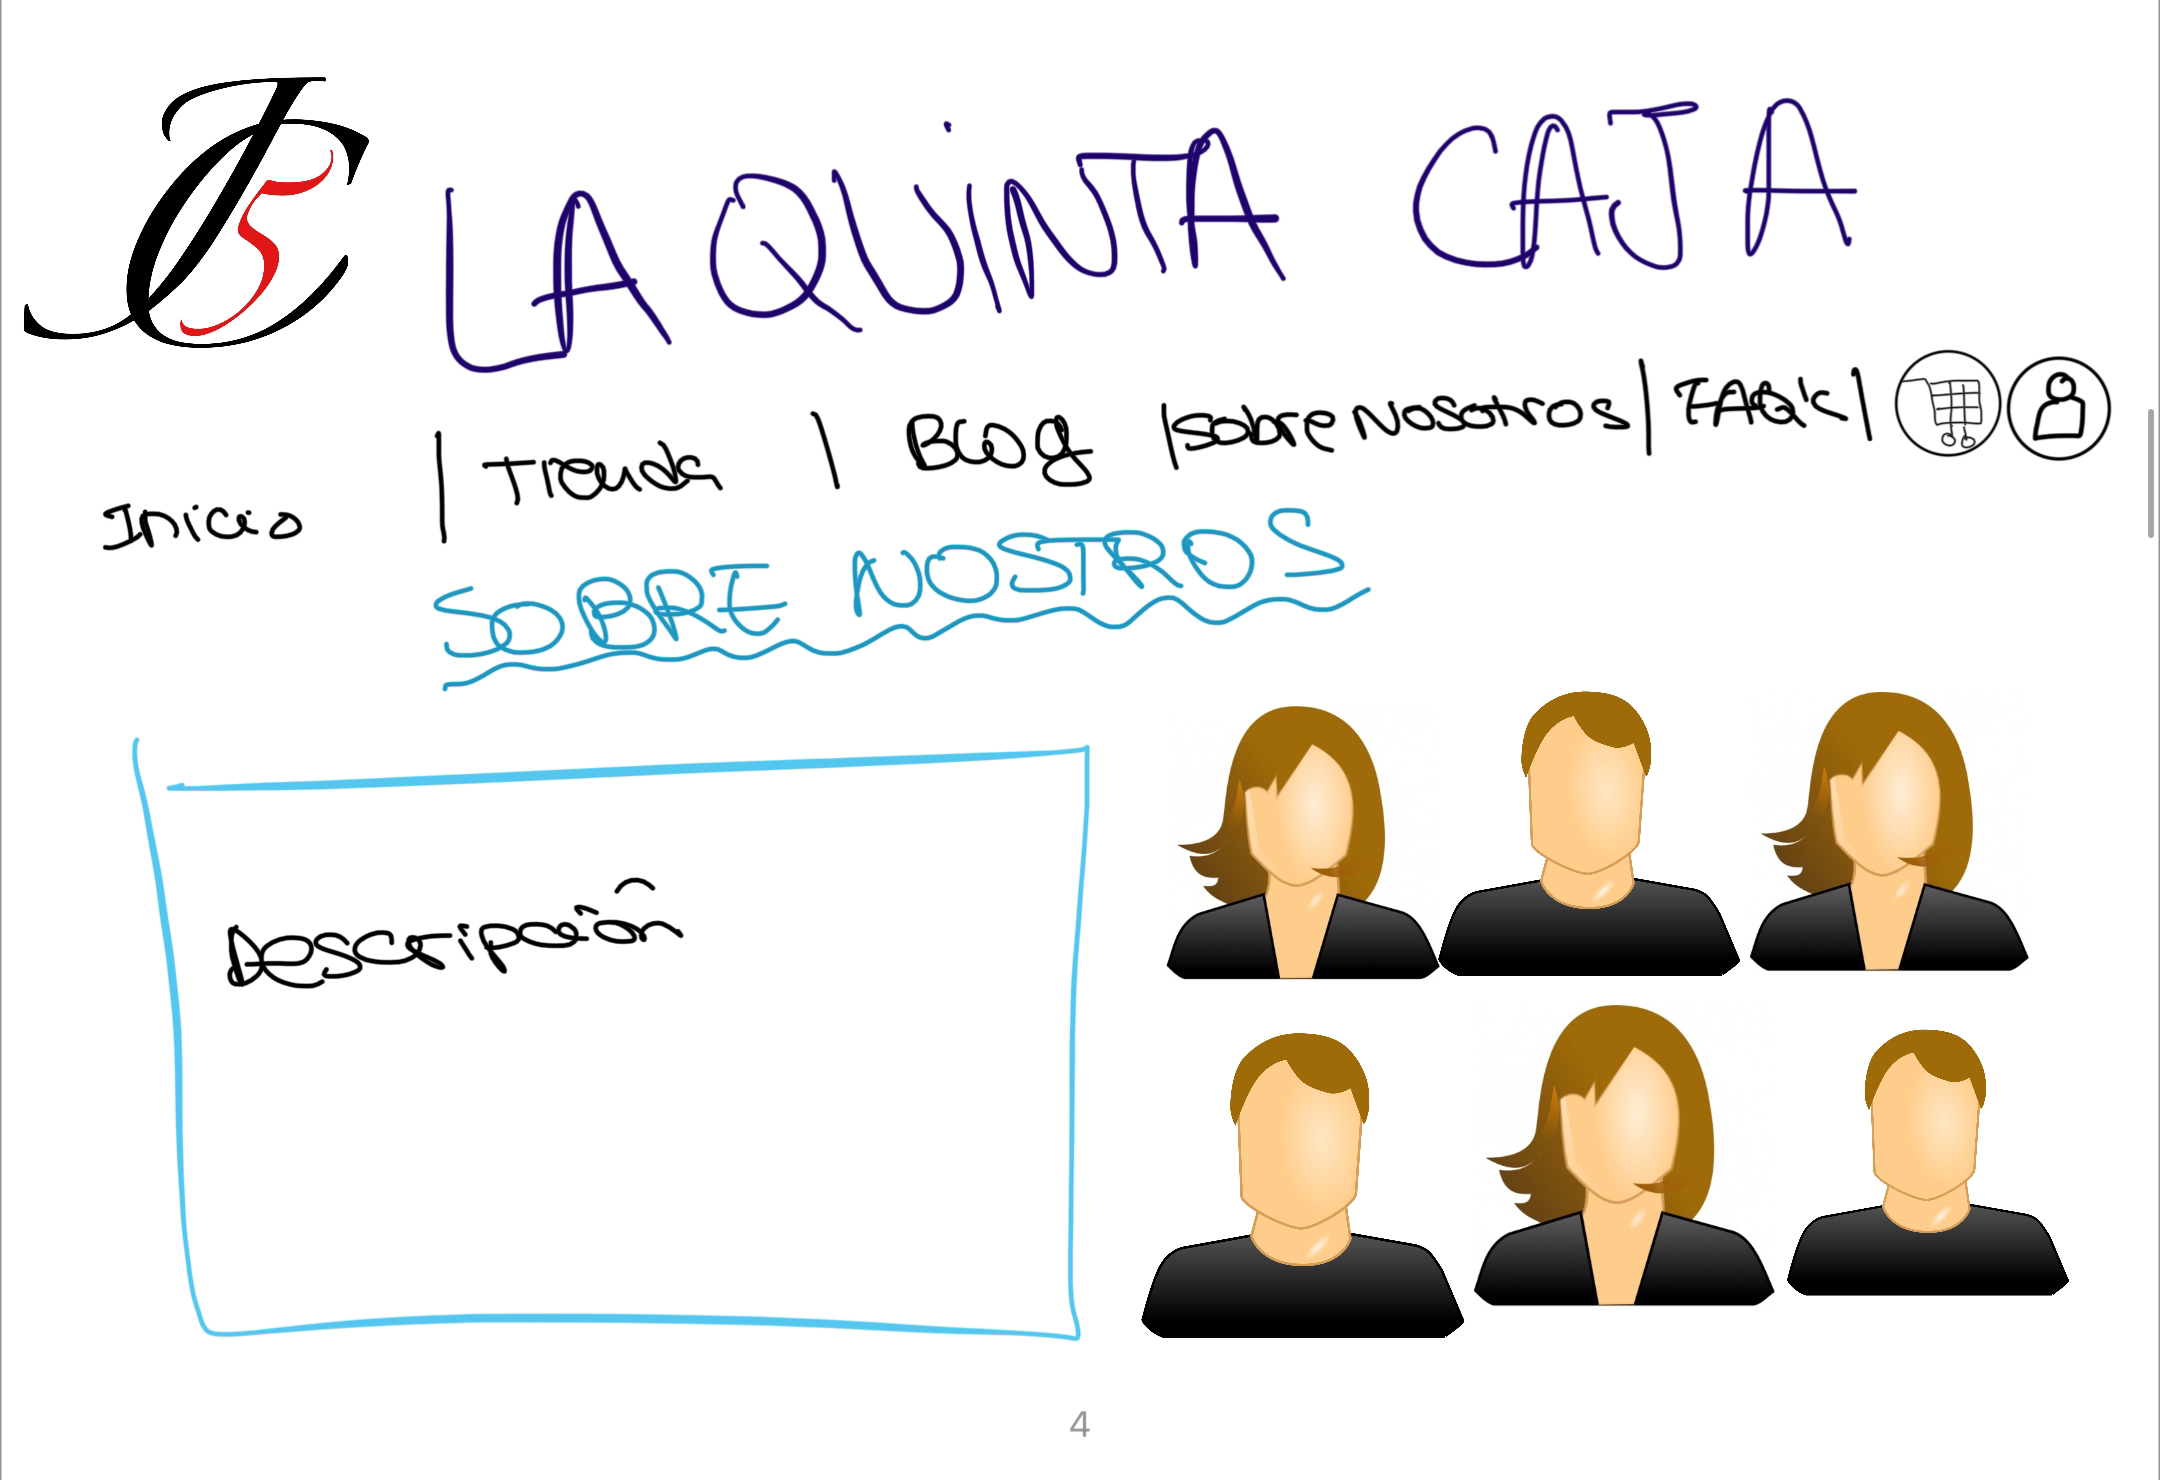
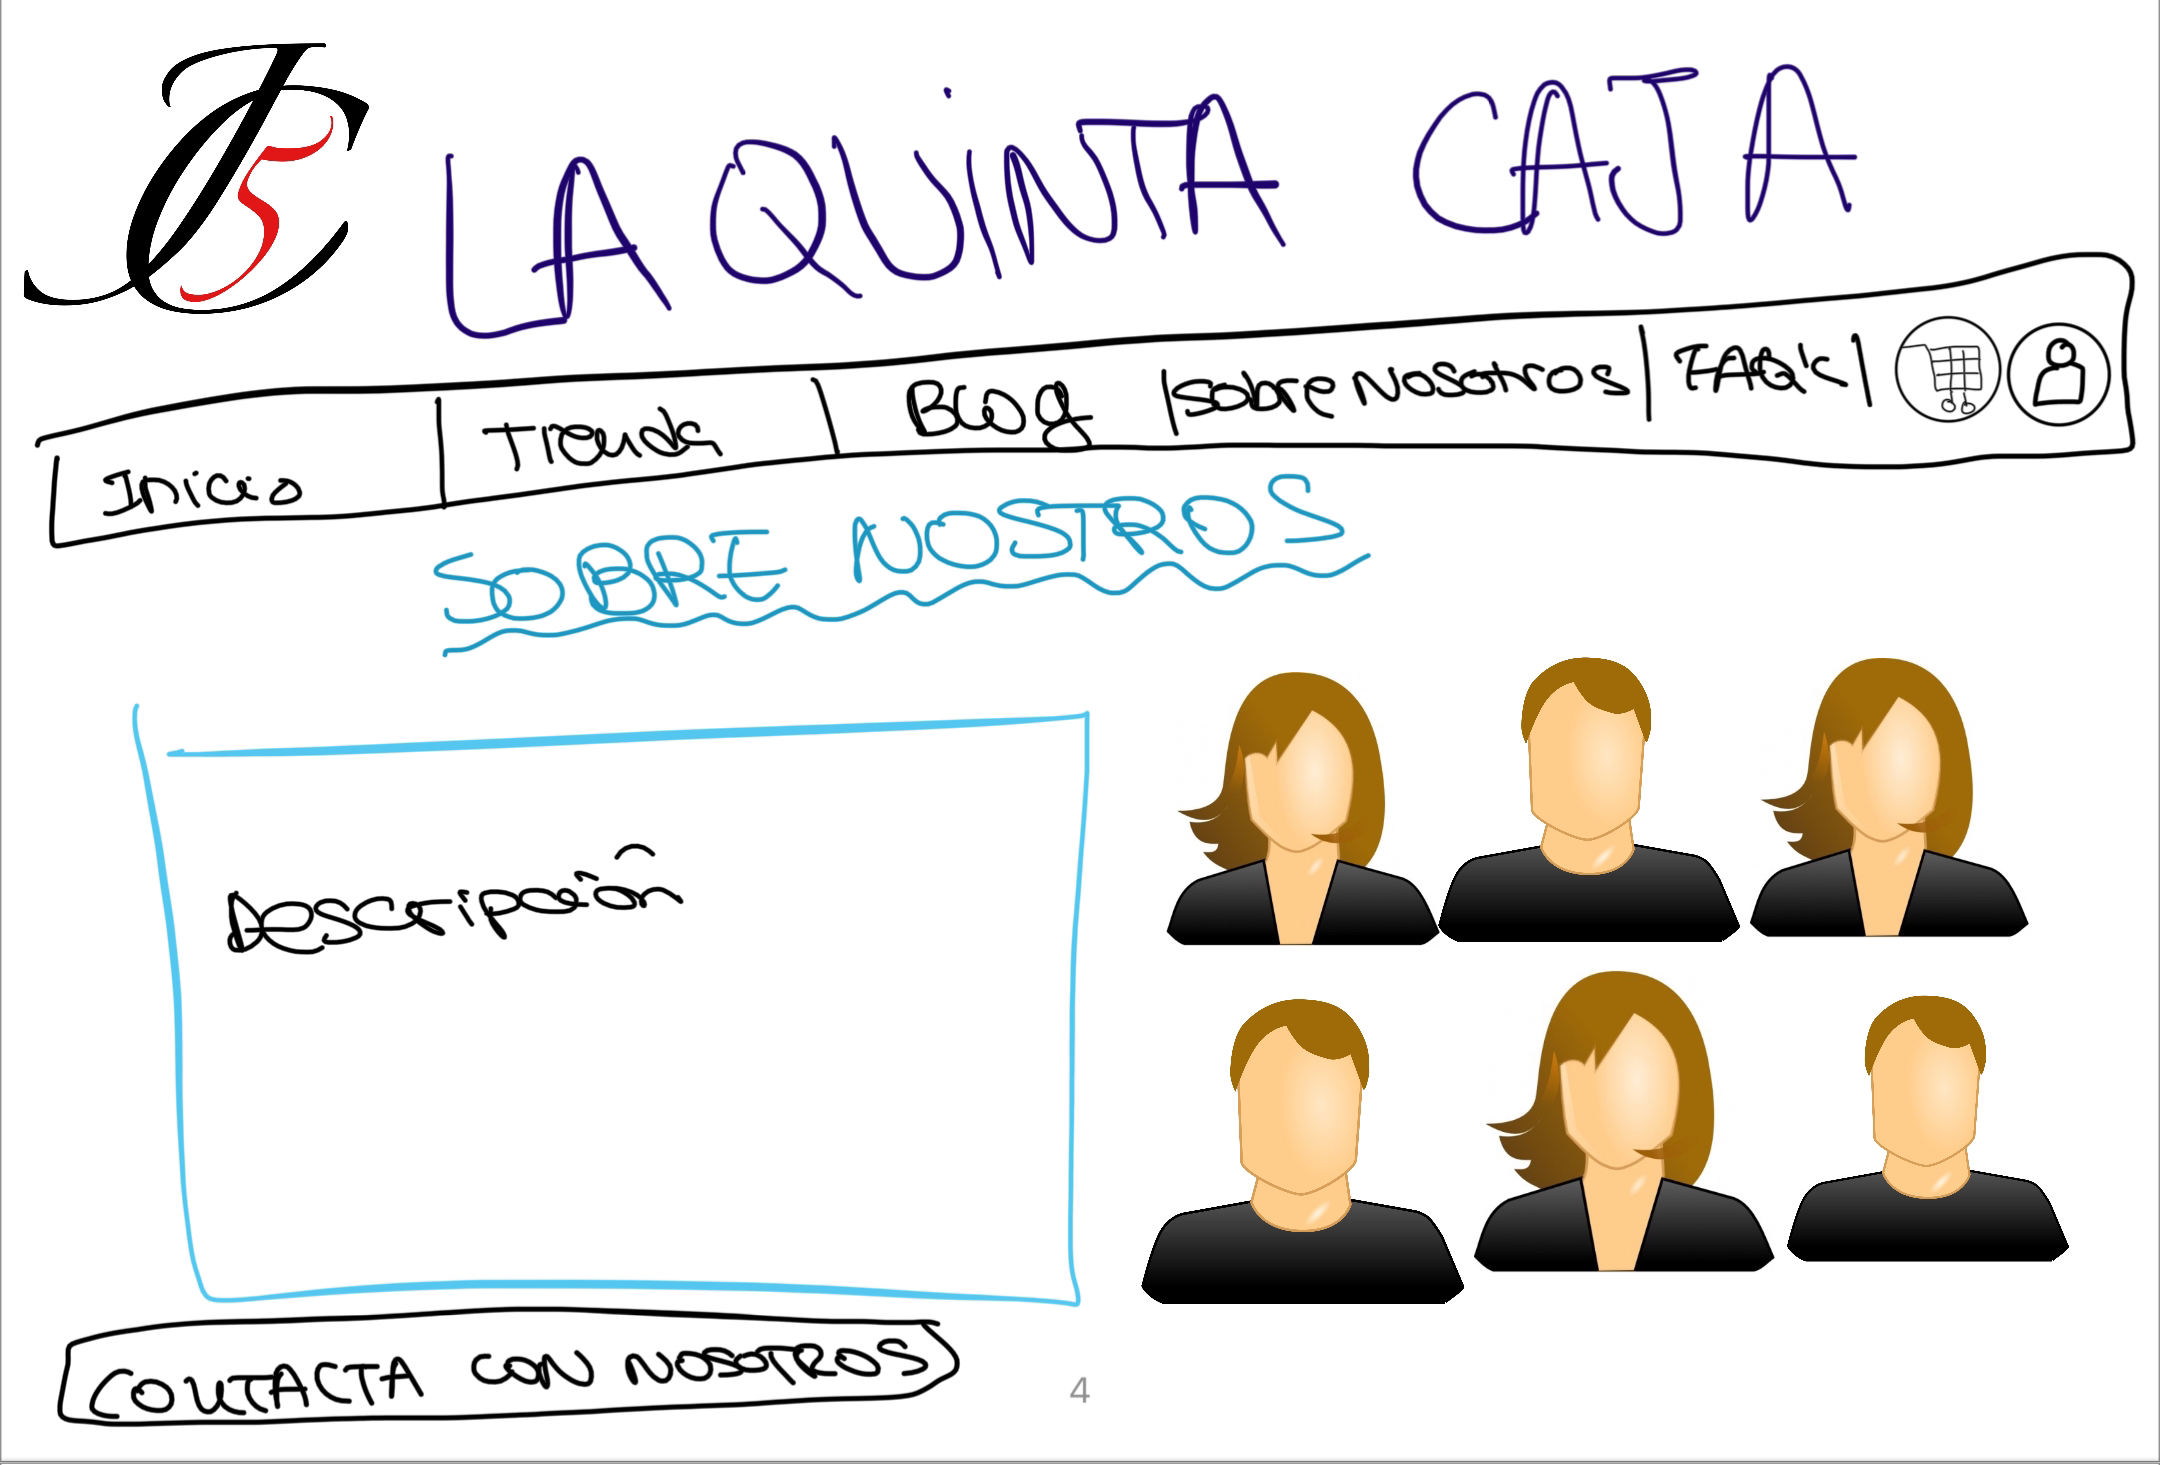
bocetos acabados
La pagina de bocetos con todas la descripciones e imagenes

diff --git a/bocetos.html b/bocetos.html
@@ -23,22 +23,91 @@
 	 con un enlace a la página de registro. En el otro lado estará la caja de temporada, con un enlace a la tienda. En la barra superior
 	 encontramos las páginas principales a las que se puede acceder haciendo click</p>
 	<img class="boceto" src="img/b_PPrincipal.png" alt="Boceto de la Pagina Principal">
+	
 	<h3> Página de Tienda </h3>
 	<p> Descripcion: Página de la tienda, donde se encontraran todos nuestro productos en orden. El cliente podrá navegar sobre esta, viendo los 
 	distintos productos. En el lado izquierdo de la pagina encontraremos una sección con filtros, pudiendo el cliente seleccionar lo que el desee
 	y mostrandose los productos según dichos criterios. Al seleccionar un producto se redigirá a la página concetra del producto. 
-	En la barra superior encontramos las páginas principales a las que se puede acceder haciendo click</p>
+	En la barra superior encontramos las páginas principales a las que se puede acceder haciendo click. En caso de estar registrado como administrador
+	se dara la opción de modificar las unidades de los productos, eliminarlos o añadir nuevos productos</p>
 	<img class="boceto" src="img/b_Tienda.png" alt="Boceto de la Tienda">
+	
 	<h3> Página de Producto </h3>
-	<p> Descripción: Página que muestra un producto en concreto. Encontramos los detalles del producto, una imange y su precio. Se puede elegir
-		talla y unidades. Si se decide comprar se añade el producto al carrito </p>
+	<p> Descripción: Página que muestra un producto en concreto. Encontramos los detalles del producto, una imagen y su precio. Se puede elegir
+		talla y unidades. Si se decide comprar se añade el producto al carrito, si el usuario esta registrado se añadirá al carrito, sino se redigirá
+		a la página de login. Del mismo modo, si esta registrado podrá añadir el producto a la lista de deseaos, sino serán redirigidos a la página de 
+		login. En la parte inferior se encontrará la parte de comentarios, y se podrá añadir una review en caso de haber comprado el producto anteriormente
+		Como administrador se pueden editar todos los datos posibles de los productos. </p>
 	<img class="boceto" src="img/b_PProducto.png" alt="Boceto de Pag de producto">
-	<h3> Página de Sobre Nosotros </h3>
-	<p> Descripcion </p>
+	
+	<h3> Página Sobre Nosotros </h3>
+	<p> Descripción: Página en la que se muestra la información de la empresa “La Quinta Caja”. Si pulsas el botón contáctanos se redigirá a la página
+	de Contacto	</p>
 	<img class="boceto" src="img/b_SobreNosotros.png" alt="Boceto de Sobre Nosotros">
+	
 	<h3> Página de FAQs </h3>
-	<p> Descripcion </p>
+	<p> Descripción: Página en la que se muestran las preguntas frecuentes y se da una respuesta a cada una de ellas </p>
 	<img class="boceto" src="img/b_PFAQs.png" alt="Boceto de la Pagina de FAQs">
+	
+	<h3> Página del Blog </h3>
+	<p> Descripción: Blog de la web donde se muestran las entradas publicadas	 en orden cronológico con una pequeña previsualización.
+		En caso de estar registrado como administrador se podrán añadir nuevas entradas o eliminar entradas existentes. 
+		Al hacer click en una de las entradas se redirigirá a esta. </p>
+	<img class="boceto" src="img/b_PBlog.png" alt="Boceto de la Pagina del Blog">
+	
+	<h3> Página de Post del Blog</h3>
+	<p> Descripcion: Se muestra la entrada del blog, con su texto e imágenes. En el lateral izquierdo se mostrarán los titulares de otras entradas, 
+		siendo redirigido a esta en caso de que se desee. Después de la entrada, en la parte inferior existirá una opción de comentarios, 
+		donde todos los usuarios registrados podrán comentar. En caso de ser administrador se podrá editar el post.</p>
+	<img class="boceto" src="img/b_PPost.png" alt="Boceto de la Pagina de Post del Blog">
+	
+	<h3> Página de Mi Usuario</h3>
+	<p> Descripción: En caso de estar registrado se mostrarán los datos del usuario (nombre, email, comprar y su tipo de suscripción, 
+	que podrá cambiar si desea en la misma página). Desde esta página se puede acceder a la lista de deseos del usuario.  </p>
+	<img class="boceto" src="img/b_PUsuario.png" alt="Boceto de la Pagina de Mi Usuario">
+	
+	<h3> Página de Registro</h3>
+	<p> Descripción: Si el usuario ya está registrado se le redirigirá a la página de usuario. Se pide introducir los datos personales 
+	(nombre, apellidos, email, contraseña, dirección y la casilla de aceptar términos y condiciones). Al pulsar el botón registrarse se 
+	registra el usuario (en caso de que no haya ningún error) Sino, se mostrará el error que el usuario deberá corregir para poder registrarse.</p>
+	<img class="boceto" src="img/b_PRegistro.png" alt="Boceto de la Pagina de Registro">
+	
+	<h3> Página de Carrito</h3>
+	<p> Descripción: En esta página aparecerá una lista con los artículos que el usuario ha elegido comprar, con los precios y 
+		características desglosadas.Si ya está registrado, aparecerá un mensaje de confirmación de la compra y se añadirá el pedido 
+		a la lista de pedidos. Como solo aceptamos pagos en efectivo, no será necesario introducir la información de la tarjeta de crédito. </p>
+	<img class="boceto" src="img/b_PCarrito.png" alt="Boceto de la Pagina de Carrito">
+	
+	<h3> Página de Lista de Deseos</h3>
+	<p> Descripcion: Se muestran los productos añadidos en la lista de deseos de un usuario registrado.  </p>
+	<img class="boceto" src="img/b_PDeseos.png" alt="Boceto de la Pagina de Lista de Deseos">
+	
+	<h3> Página de Inicio Sesion</h3>
+	<p> Descripcion: Se pide al usuario el mail y la contraseña para poder acceder a la página registrado. Cuando se pulsa el botón "Inicio 
+	Sesión" se comprueban los datos y se inicia sesión. En caso de no estar registrado, pulsando el botón "Registrarse" se redirige a la página
+    de registro	</p>
+	<img class="boceto" src="img/b_PLogin.png" alt="Boceto de la Pagina de Inicio de Sesion">
+	
+	<h3> Página de Contacto</h3>
+	<p> Descripcion: Página en la que cualquier usuario puede contactar con La Quinta Caja. Se deben introducir los datos necesarios (Nombre, Mail, 
+	Motivo y Mensaje) y aceptar los términos y condiciones. Al pulsar enviar se envía la consulta a la Quinta Caja	</p>
+	<img class="boceto" src="img/b_Contacto.png" alt="Boceto de la Pagina de Contacto">
+	
+	<h3> Página de Términos y Condiciones</h3>
+	<p> Descripcion: Se muestran los términos y condiciones de la Quinta Caja	</p>
+	<img class="boceto" src="img/b_Terminos.png" alt="Boceto de la Pagina de Términos y Condiciones">
+	
+	<h3> Página de Compras</h3>
+	<p> Descripcion: Se muestran las compras en caso de que seas usuario administrador	</p>
+	<img class="boceto" src="img/b_Compras.png" alt="Boceto de la Pagina de Compras">
+	
+	<h3> Barra de Menú</h3>
+	<p> Descripcion: El menú de la página contiene diferentes botones que redirigen a diferentes partes. Si se pulsa en "Inicio" se redirige a la página
+		principal. Si se pulsa el botón "Tienda" se redirige a la página Tienda. Si pulsas el botón Blog te lleva a la Página del Blog. Si pulsas el botón
+		"Sobre Nosotros" se redirige a la página Sobre Nosotros. Si pulsas en el icono del carrito, se redirige a la página de Carrito en caso de que el 
+		usuario	este registrado. En caso contrario, se redirige a la página de Inicio Sesion. Finalmente, si se pulsa el icono de usuario en caso de que
+		el usuario este registrado se le redirige a la página de Mi Usuario, sino se le redirigirá a la página de Inicio Sesión</p>
+
 	
 </body>
 </html>
